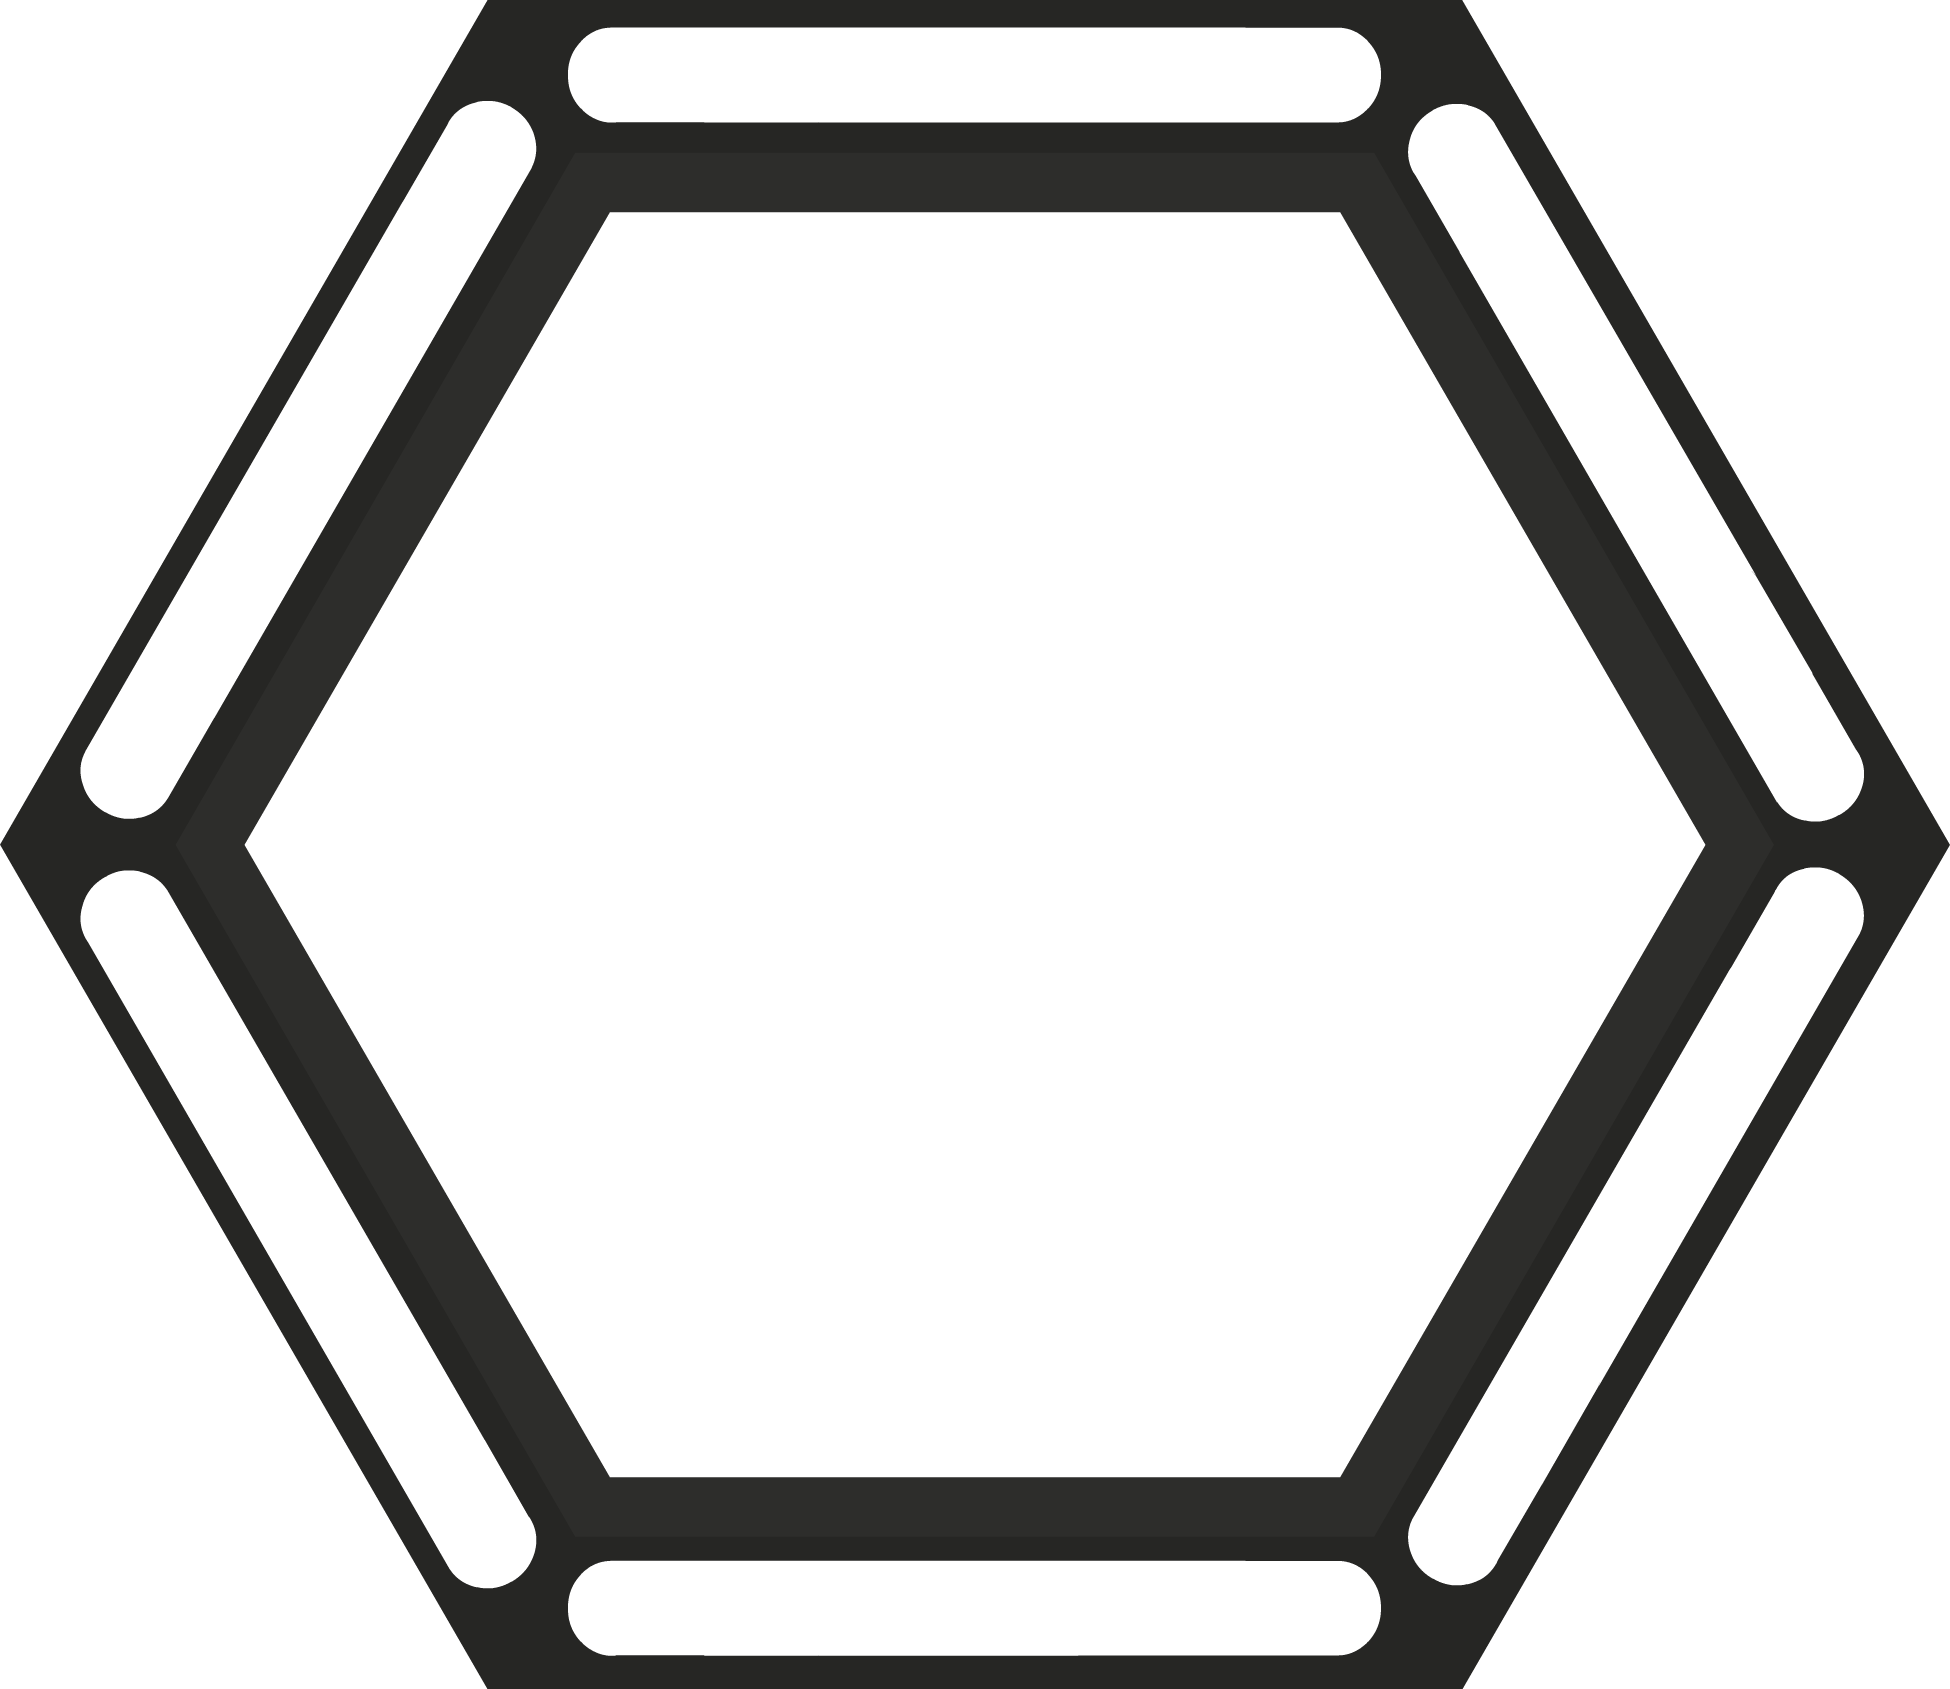
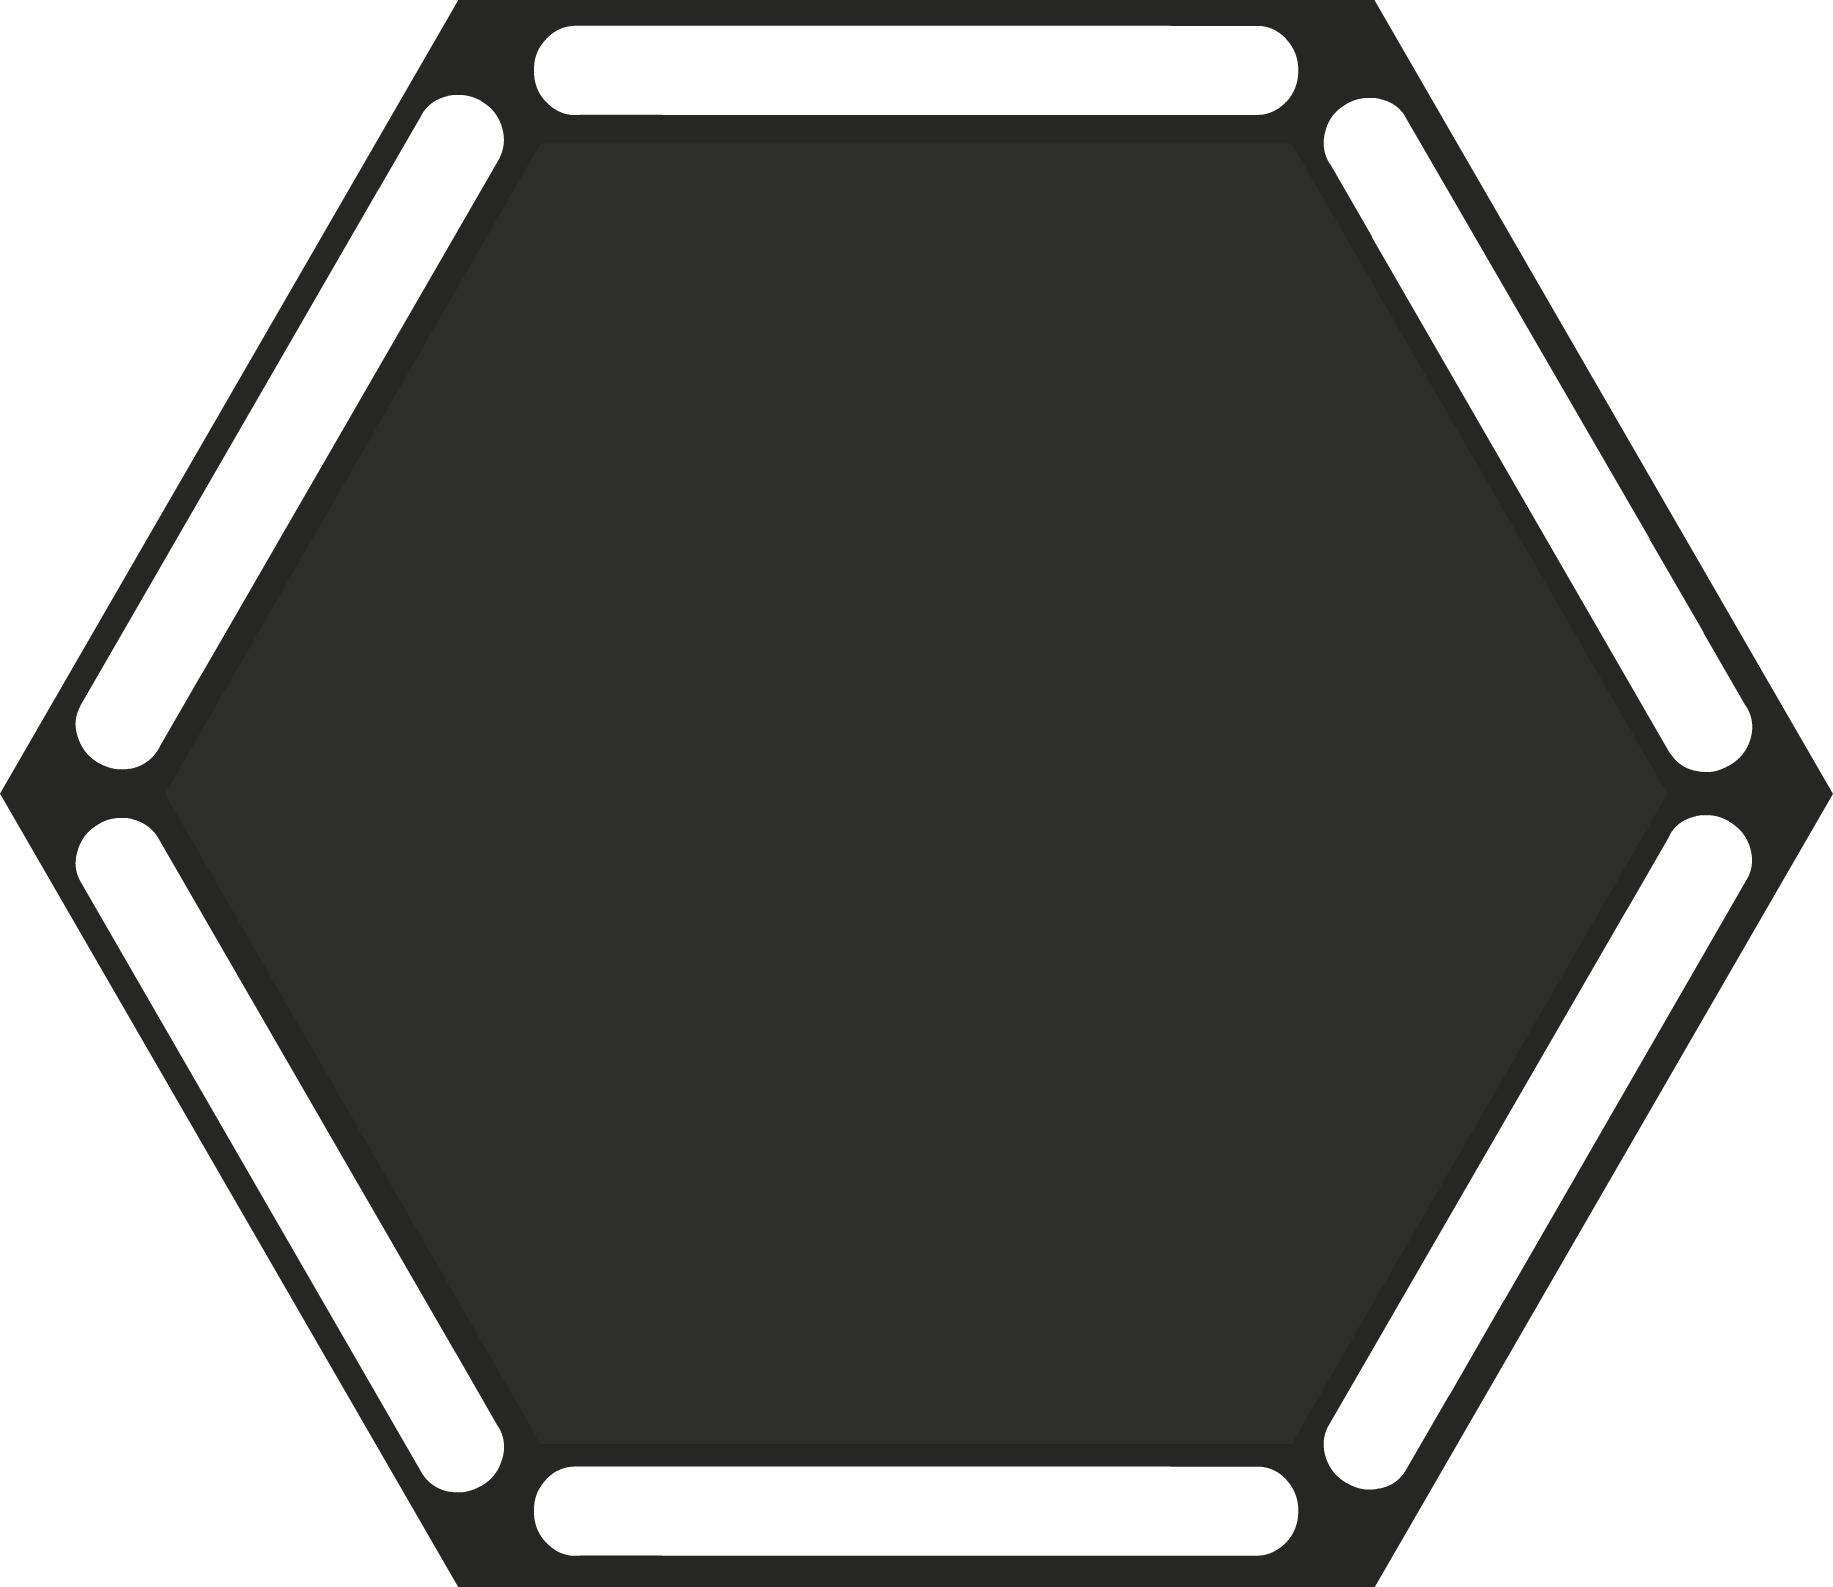
[chatbot] gameboard outer frame

diff --git a/chatbot/src/chatbot/boardrender.ts b/chatbot/src/chatbot/boardrender.ts
@@ -1,6 +1,7 @@
 import { createCanvas, Image, loadImage } from "canvas"
 import emojiUnicode from "emoji-unicode"
 import fs from "fs-extra"
+import sizeOf from "image-size"
 import { MSGrid, StoneType } from "minda-ts"
 import fetch from "node-fetch"
 import sharp from "sharp"
@@ -9,9 +10,9 @@ import awaitEvent from "../timeout"
 import { blank1_1, blank1_2, blank1_3, blank1_4, blank1_6, blankChar, blankChar2 } from "./cbconst"
 
 export async function renderBoard(board:MSGrid,
-    blackImage = emojiAsSVG("\u{26AB}"),
-    whiteImage = emojiAsSVG("\u{26AA}"),
-    noStoneImage = emojiAsSVG("\u{1F535}")) {
+    blackImage:string = "",
+    whiteImage:string = "",
+    noStoneImage:string = "") {
 
     const parseColor = (str:string, fault:string) => {
         if (str.startsWith("#") && /^#[0-9A-Fa-f]{6}$/ig.test(str)) {
@@ -23,7 +24,7 @@ export async function renderBoard(board:MSGrid,
     const colors = {
         black: parseColor(blackImage, "#eeeeee"),
         white: parseColor(whiteImage, "#111111"),
-        default: parseColor(noStoneImage, "#777777"),
+        default: parseColor(noStoneImage, "#f7deb4"),
     }
     const elSize = 1 / 3
     // the width of hexagon (l)
@@ -39,15 +40,16 @@ export async function renderBoard(board:MSGrid,
     // hexagon height
     // const hexaHeight = Math.ceil(Math.sqrt(3) * hexaLength / 2 + elementWidth)
     // canvas width
-    const canvasWidth = Math.ceil((hexaLength + elementWidth) * 1.335)
+    // 1.335 : 1.332
+    const canvasWidth = Math.ceil((hexaLength + elementWidth) * 1.2)
     // canvas height
-    const canvasHeight = Math.ceil(((Math.sqrt(3) * hexaLength / 2) + elementWidth) * 1.332)
+    const canvasHeight = Math.ceil(((Math.sqrt(3) * hexaLength / 2) + elementWidth) * 1.2)
     // the center point of hexagon
     const centerPoint = [canvasWidth / 2, canvasHeight / 2]
-
+    // layout 2: frame
     const frame = await sharp(
         await fs.readFile(`${debugPath}/board.png`))
-        .resize(canvasWidth, canvasHeight)
+        .resize(canvasWidth, canvasHeight, {fit: "inside"})
         .toBuffer().then((bf) => {
             return new Promise<Image>((res, rej) => {
                 const img = new Image()
@@ -62,6 +64,8 @@ export async function renderBoard(board:MSGrid,
         canvasHeight, "PDF")
     // context
     const ctx:CanvasRenderingContext2D = canvas.getContext("2d")
+    // draw circle
+    
     // draw background
     if (frame != null) {
         ctx.drawImage(frame, 0, 0)
@@ -143,7 +147,27 @@ export async function renderBoard(board:MSGrid,
         }
     }
     const buffer:Buffer = canvas.toBuffer()
-    return buffer
+    /**
+     * Background circle
+     */
+    const frameSize = sizeOf(buffer)
+    const frameImg = await new Promise<Image>((res, rej) => {
+        const img = new Image()
+        img.onload = () => res(img)
+        img.onerror = (err:any) => { res(null) }
+        img.src = buffer
+    })
+    const padSize = Math.floor(Math.max(frameSize.width, frameSize.height) * 1.05)
+    const outerCanvas = createCanvas(padSize, padSize, "PDF")
+    const outerCtx:CanvasRenderingContext2D = outerCanvas.getContext("2d")
+    outerCtx.beginPath()
+    const r = padSize / 2
+    outerCtx.arc(r, r, r, 0, 2 * Math.PI, false)
+    outerCtx.fillStyle = "#f9edca"
+    outerCtx.fill()
+    outerCtx.drawImage(frameImg, (padSize - frameSize.width) / 2, (padSize - frameSize.height) / 2)
+    const out = outerCanvas.toBuffer()
+    return out
 }
 export function emojiAsSVG(emoji:string) {
     return `https://cdnjs.cloudflare.com/ajax/libs/twemoji/11.2.0/2/svg/${

diff --git a/chatbot/src/index.ts b/chatbot/src/index.ts
@@ -29,12 +29,11 @@ async function run3() {
     const map = "0@0@0@0@0@0@0@2@2#0@0@0@0@0@0@0@2@2#0@0@0@0@0@0@2@2@2#0@1@0@0@0@0@2@2@2#1@1@1@0@0@0@2@2@2#1@1@1@0@0@0@0@2@0#1@1@1@0@0@0@0@0@0#1@1@0@0@0@0@0@0@0#1@1@0@0@0@0@0@0@0"
     const board = await renderBoard(new MSGrid(map),
     "https://cdn.discordapp.com/emojis/471277517823803412.png?v=1",
-    "https://cdn.discordapp.com/emojis/506470672873160734.png?v=1",
-    "#777777")
+    "https://cdn.discordapp.com/emojis/506470672873160734.png?v=1")
     await fs.writeFile(`${debugPath}/config/test.png`, board)
 }
-// run3()
-run2()
+run3()
+// run2()
 
 class AuthMinda {
     public onReady = new SimpleEventDispatcher<string>()
